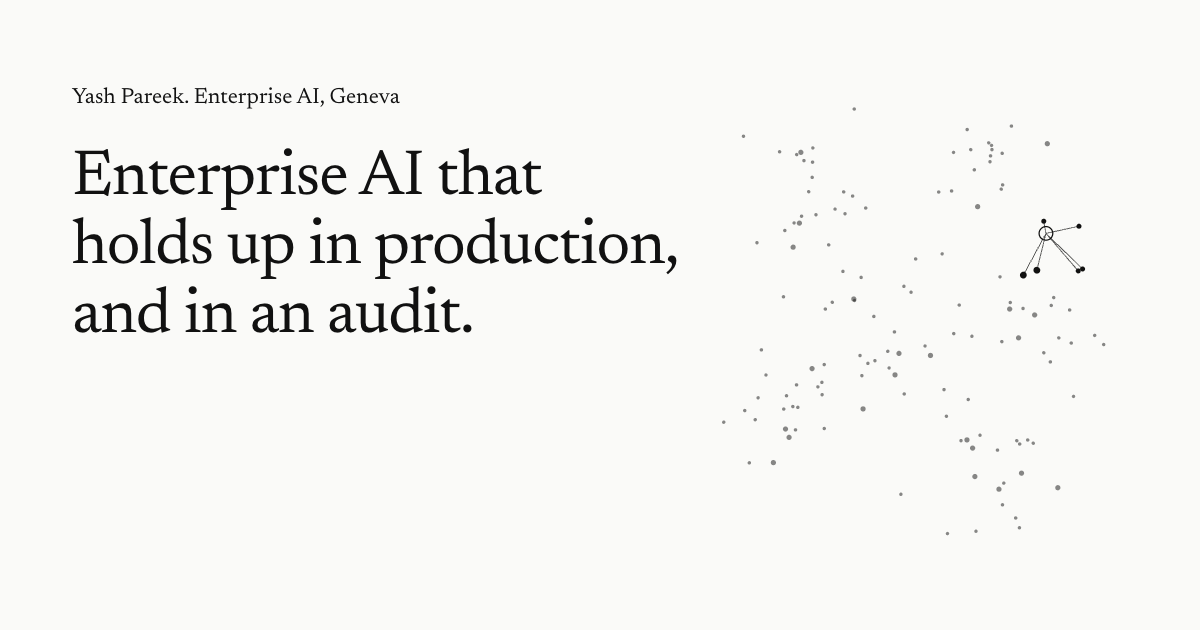
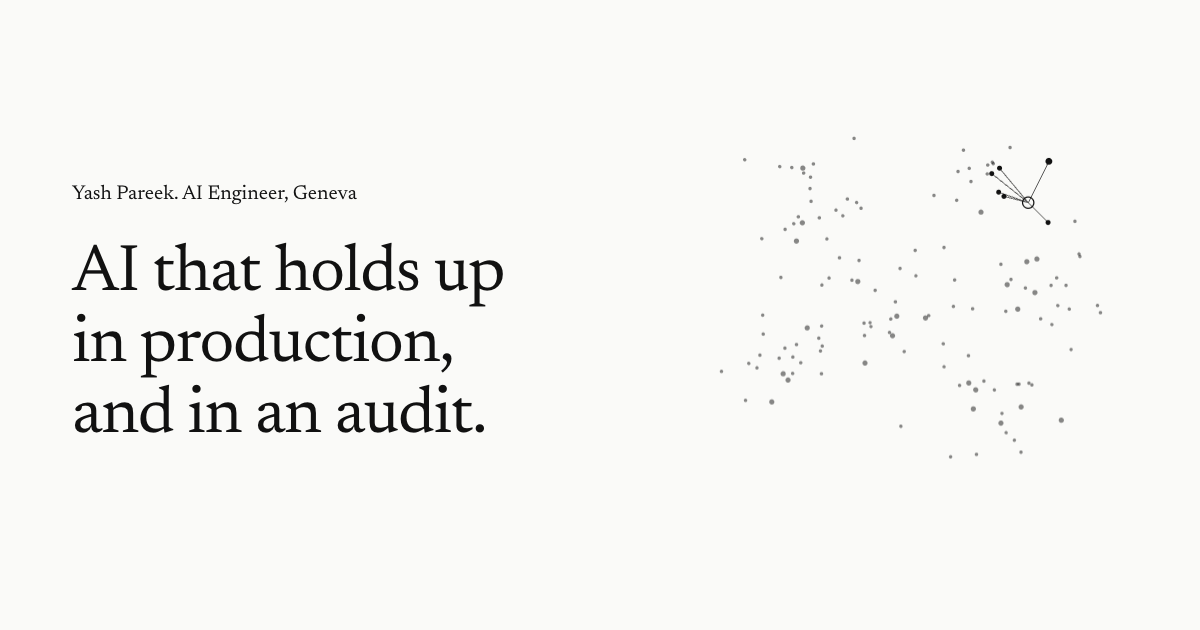
Give homepage sections a label rail and link proof figures to case studies
- Section labels sit in a left rail beside their action titles, so the titles read as one column
- Experience dates move into the rail, filling the empty right side
- Each proof figure links to the case study behind it (`work` in site.yaml, a relation field in /admin); the build fails on a missing or draft case study
- Set the arrow in before-and-after values lighter, read as "to" by screen readers
- Retake the social image with the new headline
- Document proof links in README and the style guide

diff --git a/src/styles/global.css b/src/styles/global.css
@@ -124,15 +124,24 @@ img { height: auto; }
   letter-spacing: -0.01em;
   text-wrap: balance;
 }
-.section-kicker { margin-bottom: 14px; color: var(--accent); font-size: 14px; font-weight: 500; letter-spacing: 0.04em; text-transform: uppercase; }
-.section-head .section-title { max-width: 24em; }
-.section-head {
-  display: flex;
-  flex-wrap: wrap;
-  align-items: baseline;
-  justify-content: space-between;
-  gap: 8px 24px;
-  margin-bottom: 56px;
+/* Homepage section heads: label in the left rail, action title in the text column. */
+.section-head { align-items: baseline; row-gap: 12px; margin-bottom: 56px; }
+.section-rail { grid-column: 1 / span 3; display: flex; flex-direction: column; align-items: flex-start; gap: 12px; }
+.section-kicker { color: var(--accent); font-size: 15px; font-weight: 500; line-height: 1.4; }
+.section-head .section-title { grid-column: 4 / -1; max-width: 22em; }
+@media (max-width: 760px) {
+  .section-rail { grid-column: 1 / -1; flex-direction: row; flex-wrap: wrap; justify-content: space-between; align-items: baseline; gap: 4px 24px; }
+  .section-head .section-title { grid-column: 1 / -1; }
+  .section-head { margin-bottom: 40px; }
+}
+.visually-hidden {
+  position: absolute;
+  width: 1px;
+  height: 1px;
+  overflow: hidden;
+  clip: rect(0 0 0 0);
+  clip-path: inset(50%);
+  white-space: nowrap;
 }
 .split-side { grid-column: 1 / span 4; }
 .split-main { grid-column: 5 / -1; min-width: 0; }
@@ -243,14 +252,19 @@ a { color: inherit; }
 /* Proof strip */
 .proof { border-top: 1px solid var(--hairline); }
 .proof-list { display: grid; grid-template-columns: repeat(3, minmax(0, 1fr)); }
-.proof-item { display: flex; flex-direction: column-reverse; justify-content: flex-end; padding: 40px 32px; border-left: 1px solid var(--hairline); }
-.proof-item:first-child { padding-left: 0; border-left: 0; }
+.proof-list li { display: flex; }
+.proof-item { display: flex; flex-direction: column; flex: 1; padding: 40px 32px; border-left: 1px solid var(--hairline); text-decoration: none; }
+.proof-list li:first-child .proof-item { padding-left: 0; border-left: 0; }
 .proof-value { font: 400 clamp(40px, 4.6vw, 52px)/1.05 var(--serif); letter-spacing: -0.015em; }
-.proof-label { margin-top: 10px; max-width: 26ch; color: var(--muted); font-size: 15px; line-height: 1.45; }
+.value-to { padding-inline: 0.22em; color: var(--muted); font-family: var(--sans); font-weight: 300; font-size: 0.8em; vertical-align: 0.06em; }
+.proof-label { display: block; margin-top: 10px; max-width: 26ch; color: var(--muted); font-size: 15px; line-height: 1.45; }
+.proof-more { margin-top: auto; padding-top: 16px; color: var(--accent); }
+a.proof-item:hover .link, a.proof-item:focus-visible .link { background-size: 100% 1px; }
+a.proof-item:hover .proof-label { color: var(--ink); }
 @media (max-width: 760px) {
   .proof-list { grid-template-columns: 1fr; }
-  .proof-item, .proof-item:first-child { padding: 24px 0; border-left: 0; border-top: 1px solid var(--hairline); }
-  .proof-item:first-child { border-top: 0; }
+  .proof-item, .proof-list li:first-child .proof-item { padding: 24px 0; border-left: 0; }
+  .proof-list li + li .proof-item { border-top: 1px solid var(--hairline); }
   .proof-label { max-width: none; }
 }
 
@@ -305,20 +319,17 @@ a { color: inherit; }
 }
 
 /* Experience */
-.timeline { max-width: 880px; border-bottom: 1px solid var(--hairline); }
+/* Dates sit in the left rail, under the section label; the role reads in the text column. */
+.timeline { border-bottom: 1px solid var(--hairline); }
 .job { border-top: 1px solid var(--hairline); }
-.job summary {
-  display: grid;
-  grid-template-columns: minmax(0, 1fr) 20px;
-  column-gap: 16px;
-  padding-block: 24px;
-  cursor: pointer;
-  list-style: none;
-}
+.job summary { padding-block: 24px; cursor: pointer; list-style: none; }
 .job summary::-webkit-details-marker { display: none; }
-.job-head { display: flex; flex-wrap: wrap; justify-content: space-between; gap: 2px 24px; }
+.job-dates { grid-column: 1 / span 3; padding-top: 5px; color: var(--muted); font-size: 15px; }
+.job-main { grid-column: 4 / span 8; }
+.job-toggle { grid-column: 12; justify-self: end; }
+.job-detail { grid-column: 4 / span 8; }
 .job-employer { font: 400 23px/1.25 var(--serif); }
-.job-dates { color: var(--muted); font-size: 14px; padding-top: 5px; }
+.job summary:hover .job-employer { color: var(--accent); }
 .job-role { margin-top: 2px; color: var(--muted); font-size: 15px; }
 .job-impact { margin-top: 10px; max-width: 58ch; font-size: 16px; line-height: 1.55; }
 .job-toggle { position: relative; width: 16px; height: 16px; margin-top: 8px; color: var(--accent); }
@@ -326,11 +337,18 @@ a { color: inherit; }
 .job-toggle::before { left: 0; right: 0; top: 7.5px; height: 1px; }
 .job-toggle::after { top: 0; bottom: 0; left: 7.5px; width: 1px; }
 .job[open] .job-toggle::after { display: none; }
-.job-detail { padding: 0 36px 32px 0; }
+.job-detail { padding-bottom: 32px; }
 .job-detail li { position: relative; padding-left: 18px; margin-top: 10px; color: var(--muted); font-size: 16px; line-height: 1.55; }
 .job-detail li::before { content: ''; position: absolute; left: 0; top: 0.8em; width: 8px; height: 1px; background: var(--muted); }
 .job-detail p { margin-top: 12px; font-size: 15px; }
 .job-detail p a { display: inline-block; padding-block: 2px; }
+@media (max-width: 760px) {
+  .job summary { grid-template-columns: minmax(0, 1fr) 20px; column-gap: 16px; }
+  .job-dates { grid-column: 1; grid-row: 1; padding-top: 0; font-size: 14px; }
+  .job-main { grid-column: 1; grid-row: 2; margin-top: 4px; }
+  .job-toggle { grid-column: 2; grid-row: 1 / span 2; margin-top: 4px; }
+  .job-detail { grid-column: 1 / -1; padding-right: 36px; }
+}
 
 /* Capabilities */
 .cap-columns { display: grid; grid-template-columns: repeat(3, minmax(0, 1fr)); column-gap: 48px; }

diff --git a/src/content.config.ts b/src/content.config.ts
@@ -105,7 +105,8 @@ const site = defineCollection({
     subheadline: z.string(),
     description: z.string(),
     location: z.string(),
-    proof_metrics: z.array(metric).length(3),
+    // `work` names the case study that backs the figure, by its filename without .md.
+    proof_metrics: z.array(metric.extend({ work: z.string().optional() })).length(3),
     sections: z.object({
       work: sectionHead,
       approach: sectionHead,

diff --git a/CASE-STUDY-STYLE.md b/CASE-STUDY-STYLE.md
@@ -40,7 +40,7 @@ Captions are action titles too: state the finding the chart proves ("Duplicates 
 The homepage is one argument, told top-down:
 
 1. **Hero: the governing thought.** What you deliver, in one line ("AI that holds up in production, and in an audit"), then who you do it with and how.
-2. **Proof strip.** Three outcomes, one per case study, in plain language.
+2. **Proof strip.** Three outcomes, one per case study, in plain language. Each figure links to the case study that backs it.
 3. **Selected work.** The case studies themselves, the evidence.
 4. **How I work.** Why the results are repeatable.
 5. **Experience.** That this is a track record, not a one-off.

diff --git a/README.md b/README.md
@@ -24,6 +24,8 @@ npm run check    # type-checks the code and content schemas
 | About page text | `src/content/about.md` |
 | CV | `public/files/cv.pdf` |
 
+Each proof metric in `site.yaml` can name the case study behind it with `work: <filename without .md>`, and the home page links the figure there. The build fails if that case study doesn't exist or is a draft.
+
 The schemas are in `src/content.config.ts`. A build fails if a file doesn't match its schema. If you change a schema, change `public/admin/config.yml` to match. Entries in the YAML lists appear in file order.
 
 ## Add a case study
